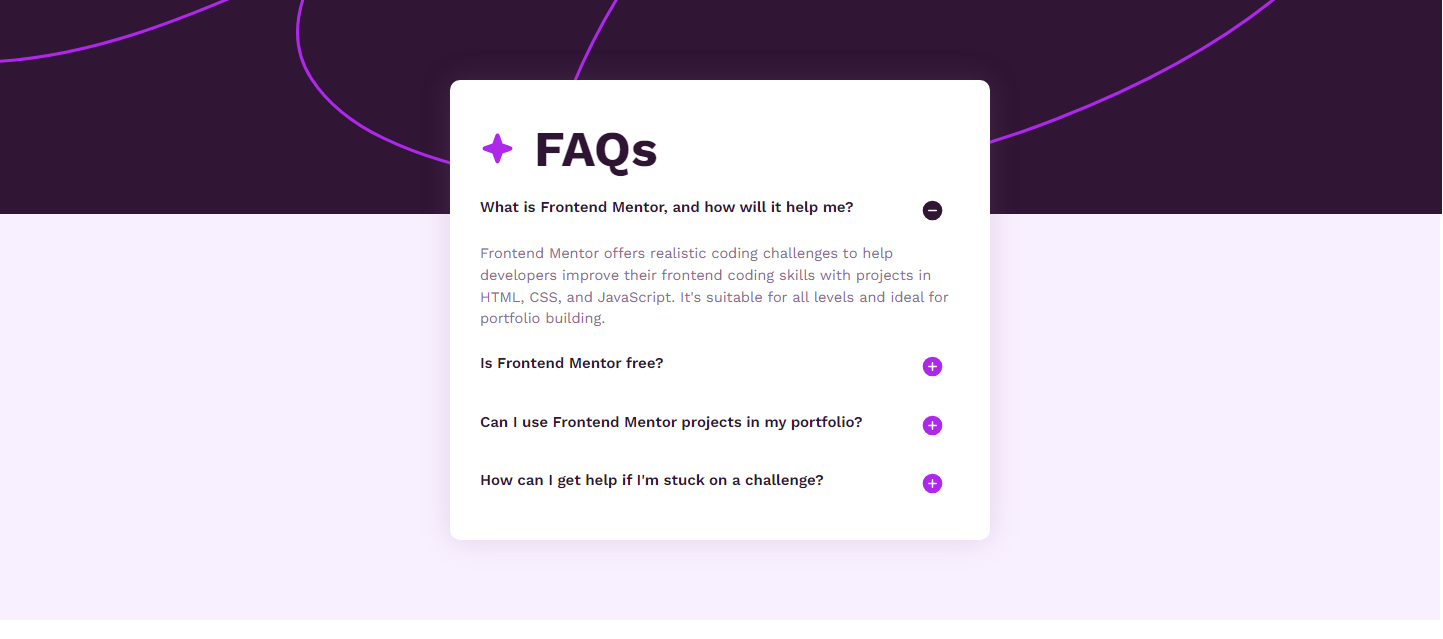
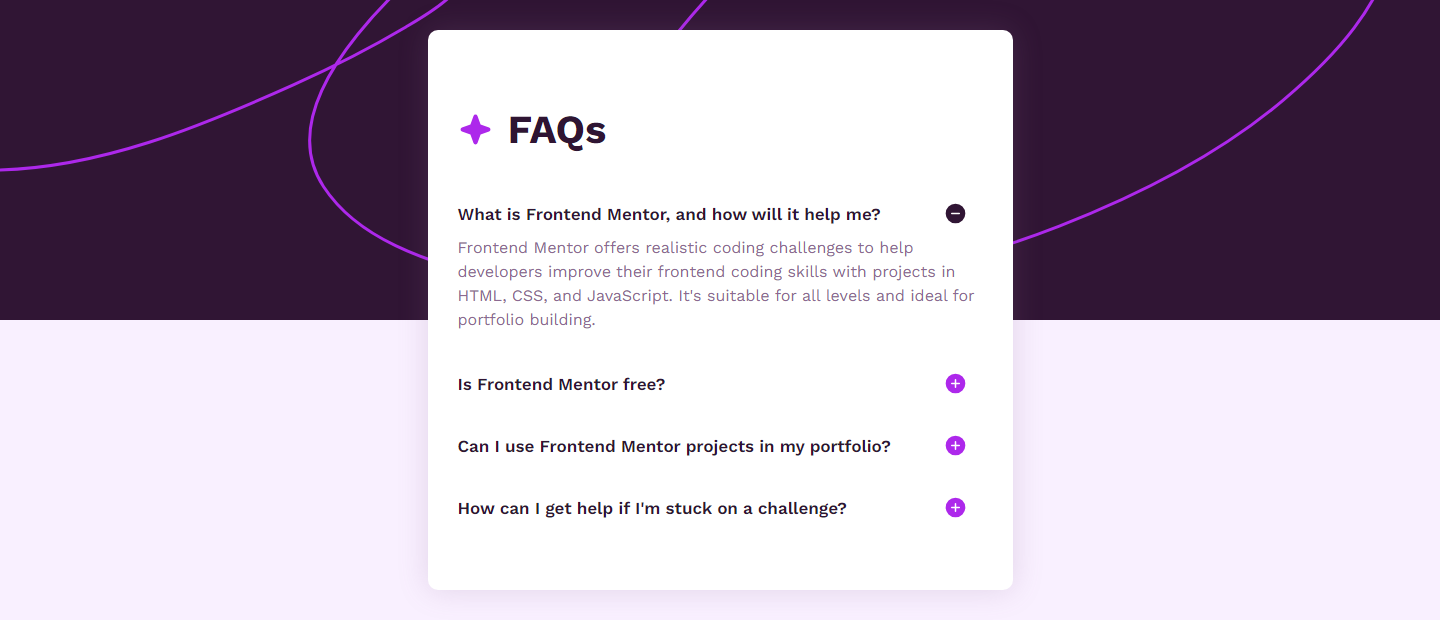
Add files via upload

diff --git a/index.scss b/index.scss
@@ -25,19 +25,14 @@ main {
     justify-content: center;
     align-items: center;
     background-color: hsl(275, 100%, 97%);
-}
-
-.image {
-    height: 324px;
-    width: 1460px;
-    position: absolute;
-    top: -110px;
+    background-image: url("./assets/images/background-pattern-desktop.svg");
+    background-repeat: no-repeat;
 }
 
 .box {
     background-color:hsl(0, 0%, 100%);
-    width: 480px;
-    height: 400px;
+    width: 525px;
+    height: 500px;
     box-shadow: 0 0 30px 0 hsla(293, 16%, 49%, 0.212);
     border-radius: 10px;
     padding: 30px;
@@ -48,13 +43,18 @@ main {
 }
 
 .header {
-    margin-bottom: 10px;
+    display: flex;
+    justify-content:left;
+    align-items: center;
+    height: 55px;
+    margin-bottom: 5px;
 }
 
 img {
     width: 35px;
     height: 35px;
     margin-right: 15px;
+    margin-left: 0;
 }
 
 .btn1,
@@ -67,17 +67,14 @@ img {
 .main-question {
     display: flex;
     justify-content: space-between;
-    margin-bottom: 20px;
-}
-
-.main-question.last {
-    margin-bottom: 0;
+    align-items: center;
+    height: 20px;
 }
 
 .question {
     color: hsl(292, 42%, 14%);
     font-family:'customFont2';
-    font-size: 15px;
+    font-size: 17px;
     font-weight: bold;
 }
 
@@ -88,15 +85,19 @@ img {
 
 .faq {
     font-family:'customFont1';
-    font-size: 50px;
+    font-size: 40px;
     color: hsl(292, 42%, 14%);
+    margin-top: 0;
+    margin-bottom: 0;
 }
 
 p {
     font-family:'customFont3';
-    font-size: 14.5px;
+    font-size: 16px;
     color: hsl(292, 16%, 49%);
     line-height: 1.5;
+    margin-top: 12px;
+    margin-bottom: 0;
 }
 
 @media (max-width: 375px) {
@@ -105,20 +106,23 @@ p {
         height: 100vh;
     }
 
-    .image {
-        width: 900px;
-        height: 324px;
-    }
-
     .box {
         width: 265px;
-        height: 500px;
+        height: 520px;
         padding: 20px;
+    }
+
+    .header {
+        display: flex;
+        align-items: center;
+        height: 35px;
     }
 
     img {
         width: 25px;
         height: 25px;
+        margin-top: 0;
+        margin-left: 0;
     }
 
     .faq {
@@ -126,10 +130,18 @@ p {
     }
 
     p {
-        font-size: 13px;
+        line-height: 1.4;
+        font-size: 12px;
     }
 
     .question {
+        font-size: 14px;
         margin-right: 10px;
+    }
+
+    .main-question {
+        height: 40px;
+        display: flex;
+        align-items: center;
     }
 }

diff --git a/index.css b/index.css
@@ -21,19 +21,14 @@ main {
   justify-content: center;
   align-items: center;
   background-color: hsl(275, 100%, 97%);
-}
-
-.image {
-  height: 324px;
-  width: 1460px;
-  position: absolute;
-  top: -110px;
+  background-image: url("./assets/images/background-pattern-desktop.svg");
+  background-repeat: no-repeat;
 }
 
 .box {
   background-color: hsl(0, 0%, 100%);
-  width: 480px;
-  height: 400px;
+  width: 525px;
+  height: 500px;
   box-shadow: 0 0 30px 0 hsla(293, 16%, 49%, 0.212);
   border-radius: 10px;
   padding: 30px;
@@ -44,13 +39,18 @@ main {
 }
 
 .header {
-  margin-bottom: 10px;
+  display: flex;
+  justify-content: left;
+  align-items: center;
+  height: 55px;
+  margin-bottom: 5px;
 }
 
 img {
   width: 35px;
   height: 35px;
   margin-right: 15px;
+  margin-left: 0;
 }
 
 .btn1,
@@ -63,17 +63,14 @@ img {
 .main-question {
   display: flex;
   justify-content: space-between;
-  margin-bottom: 20px;
-}
-
-.main-question.last {
-  margin-bottom: 0;
+  align-items: center;
+  height: 20px;
 }
 
 .question {
   color: hsl(292, 42%, 14%);
   font-family: "customFont2";
-  font-size: 15px;
+  font-size: 17px;
   font-weight: bold;
 }
 
@@ -84,15 +81,19 @@ img {
 
 .faq {
   font-family: "customFont1";
-  font-size: 50px;
+  font-size: 40px;
   color: hsl(292, 42%, 14%);
+  margin-top: 0;
+  margin-bottom: 0;
 }
 
 p {
   font-family: "customFont3";
-  font-size: 14.5px;
+  font-size: 16px;
   color: hsl(292, 16%, 49%);
   line-height: 1.5;
+  margin-top: 12px;
+  margin-bottom: 0;
 }
 
 @media (max-width: 375px) {
@@ -100,26 +101,36 @@ p {
     width: 375px;
     height: 100vh;
   }
-  .image {
-    width: 900px;
-    height: 324px;
-  }
   .box {
     width: 265px;
-    height: 500px;
+    height: 520px;
     padding: 20px;
+  }
+  .header {
+    display: flex;
+    align-items: center;
+    height: 35px;
   }
   img {
     width: 25px;
     height: 25px;
+    margin-top: 0;
+    margin-left: 0;
   }
   .faq {
     font-size: 30px;
   }
   p {
-    font-size: 13px;
+    line-height: 1.4;
+    font-size: 12px;
   }
   .question {
+    font-size: 14px;
     margin-right: 10px;
+  }
+  .main-question {
+    height: 40px;
+    display: flex;
+    align-items: center;
   }
 }/*# sourceMappingURL=index.css.map */

diff --git a/index.html b/index.html
@@ -11,14 +11,13 @@
   </head>
   <body>
     <main>
-      <img class="image" src="./assets/images/background-pattern-desktop.svg" alt="">
       <section class="box">
         <div class="header">
-          <img src="./assets/images/icon-star.svg" alt=""> <span class="faq">FAQs</span>
+          <img src="./assets/images/icon-star.svg" alt=""> <h1 class="faq">FAQs</h1>
         </div>
         <div>
           <div class="main-question">
-            <span class="question">What is Frontend Mentor, and how will it help me?</span>
+            <h2 class="question">What is Frontend Mentor, and how will it help me?</h2>
             <span class="botton">
               <img class="btn1" src="./assets/images/icon-plus.svg" alt="">
               <img class="btn2" src="./assets/images/icon-minus.svg" alt="">
@@ -32,7 +31,7 @@
         </div>
         <div>
           <div class="main-question">
-            <span class="question">Is Frontend Mentor free?</span>
+            <h2 class="question">Is Frontend Mentor free?</h2>
             <span class="botton">
               <img class="btn1" src="./assets/images/icon-plus.svg" alt="">
               <img class="btn2" src="./assets/images/icon-minus.svg" alt="">
@@ -45,7 +44,7 @@
         </div>
         <div>
           <div class="main-question">
-            <span class="question">Can I use Frontend Mentor projects in my portfolio?</span>
+            <h2 class="question">Can I use Frontend Mentor projects in my portfolio?</h2>
             <span class="botton">
               <img class="btn1" src="./assets/images/icon-plus.svg" alt="">
               <img class="btn2" src="./assets/images/icon-minus.svg" alt="">
@@ -57,8 +56,8 @@
           </p>
         </div>
         <div>
-          <div class="main-question last">
-            <span class="question">How can I get help if I'm stuck on a challenge?</span>
+          <div class="main-question">
+            <h2 class="question">How can I get help if I'm stuck on a challenge?</h2>
             <span class="botton">
               <img class="btn1" src="./assets/images/icon-plus.svg" alt="">
               <img class="btn2" src="./assets/images/icon-minus.svg" alt="">

diff --git a/index.js b/index.js
@@ -26,6 +26,7 @@ for (let i = 0; i <= press.length; i++) {
             p[i].style.display = "block";
             btn1[i].style.display = "none";
             btn2[i].style.display = "block";
+            mainQuestion[i].style.removeProperty("margin-bottom");
 
         } else {
             p[i].style.display = "none";

diff --git a/README.md b/README.md
@@ -21,8 +21,8 @@ Users should be able to:
 
 ### Screenshot
 
-[![Desktop.png](https://i.postimg.cc/j53y9tSK/Desktop.png)](https://postimg.cc/sQSBGFW0)
-[![Mobile.png](https://i.postimg.cc/fRs5YW3g/Mobile.png)](https://postimg.cc/w7WhppQh)
+[![Desktop.png](https://i.postimg.cc/0NdtwByR/Desktop.png)](https://postimg.cc/1gXcxMFJ)
+[![Mobile.png](https://i.postimg.cc/VvcnWYGK/Mobile.png)](https://postimg.cc/LYNJHMMP)
 
 ### Links
 
